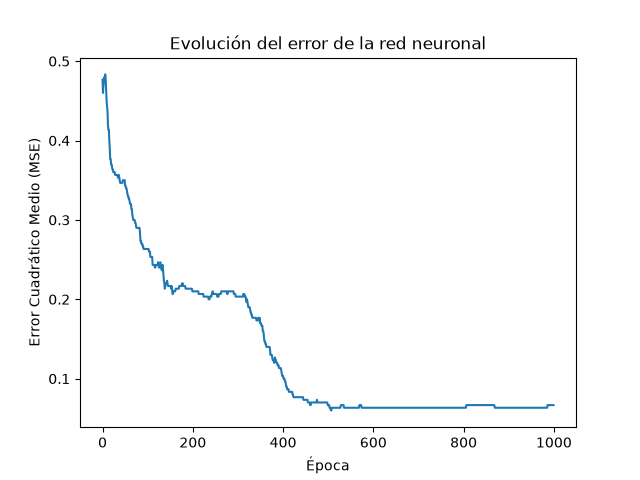
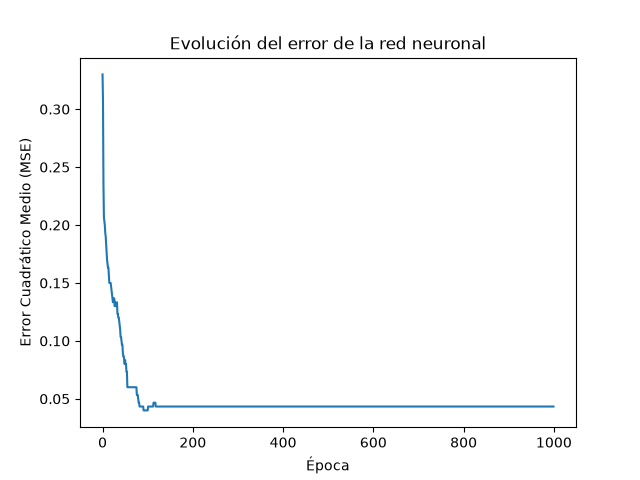
Modificar codigo para exportar pesos y sesgos

diff --git a/red_de_cero/red_neuronal.py b/red_de_cero/red_neuronal.py
@@ -2,6 +2,7 @@ import math
 from random import shuffle
 import matplotlib.pyplot as plt
 import numpy as np
+import pandas as pd
 from scipy import stats
 
 # ==========================================
@@ -128,6 +129,52 @@ def circulo(num_datos=100, R=1, minimo=0, maximo=1):
   return df
 
 
+def guardar_pesos_excel(red_neuronal, filename='pesos_red_neuronal.xlsx'):
+  """Exporta los pesos (W) y sesgos (b) de cada capa a un archivo Excel."""
+  registros_planos = []
+
+  with pd.ExcelWriter(filename, engine='openpyxl') as writer:
+    for idx, c in enumerate(red_neuronal):
+      num_capa = idx + 1
+      n_in, n_out = c.W.shape
+
+      cols = [f'Neurona_{j+1}' for j in range(n_out)]
+      idx_w = [f'Entrada_{i+1}' for i in range(n_in)]
+
+      # Pesos W y Sesgos b organizados
+      df_w = pd.DataFrame(c.W, index=idx_w, columns=cols)
+      df_b = pd.DataFrame(c.b, index=['Sesgo (b)'], columns=cols)
+
+      # Hoja individual por cada capa con su matriz completa
+      df_capa = pd.concat([df_w, df_b])
+      df_capa.to_excel(writer, sheet_name=f'Capa_{num_capa}')
+
+      # Registros para hoja resumen consolidada
+      for i in range(n_in):
+        for j in range(n_out):
+          registros_planos.append({
+              'Capa': f'Capa {num_capa}',
+              'Tipo': 'Peso (W)',
+              'Origen': f'Entrada {i+1}',
+              'Destino': f'Neurona {j+1}',
+              'Valor': c.W[i, j],
+          })
+      for j in range(n_out):
+        registros_planos.append({
+            'Capa': f'Capa {num_capa}',
+            'Tipo': 'Sesgo (b)',
+            'Origen': 'N/A',
+            'Destino': f'Neurona {j+1}',
+            'Valor': c.b[0, j],
+        })
+
+    # Hoja tabular consolidada
+    df_resumen = pd.DataFrame(registros_planos)
+    df_resumen.to_excel(writer, sheet_name='Todos_los_Pesos', index=False)
+
+  print(f'Pesos guardados exitosamente en: {filename}')
+
+
 if __name__ == '__main__':
   # Generación de datos de prueba
   datos_1 = circulo(num_datos=150, R=2)
@@ -165,3 +212,7 @@ if __name__ == '__main__':
   plt.xlabel('Época')
   plt.ylabel('Error Cuadrático Medio (MSE)')
   plt.savefig('evolucion_error.png')
+
+  # Exportar pesos generados a Excel
+  guardar_pesos_excel(red_neuronal)
+
